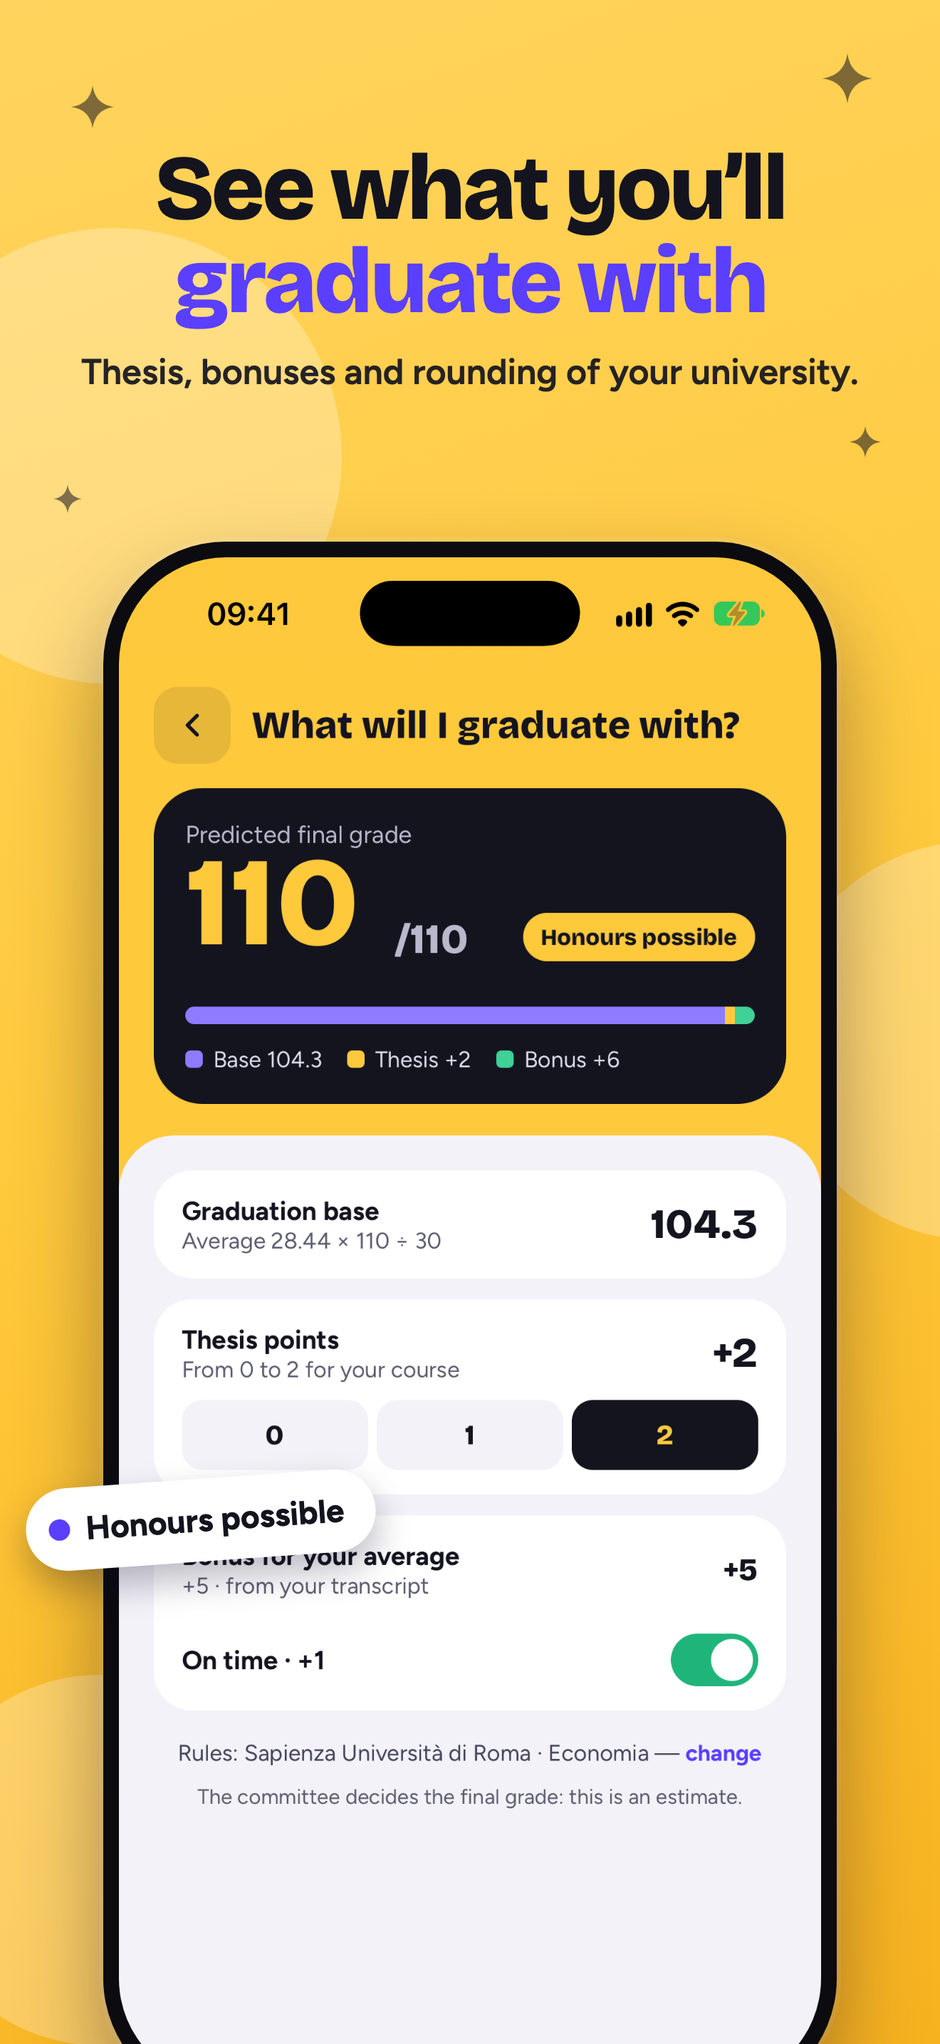
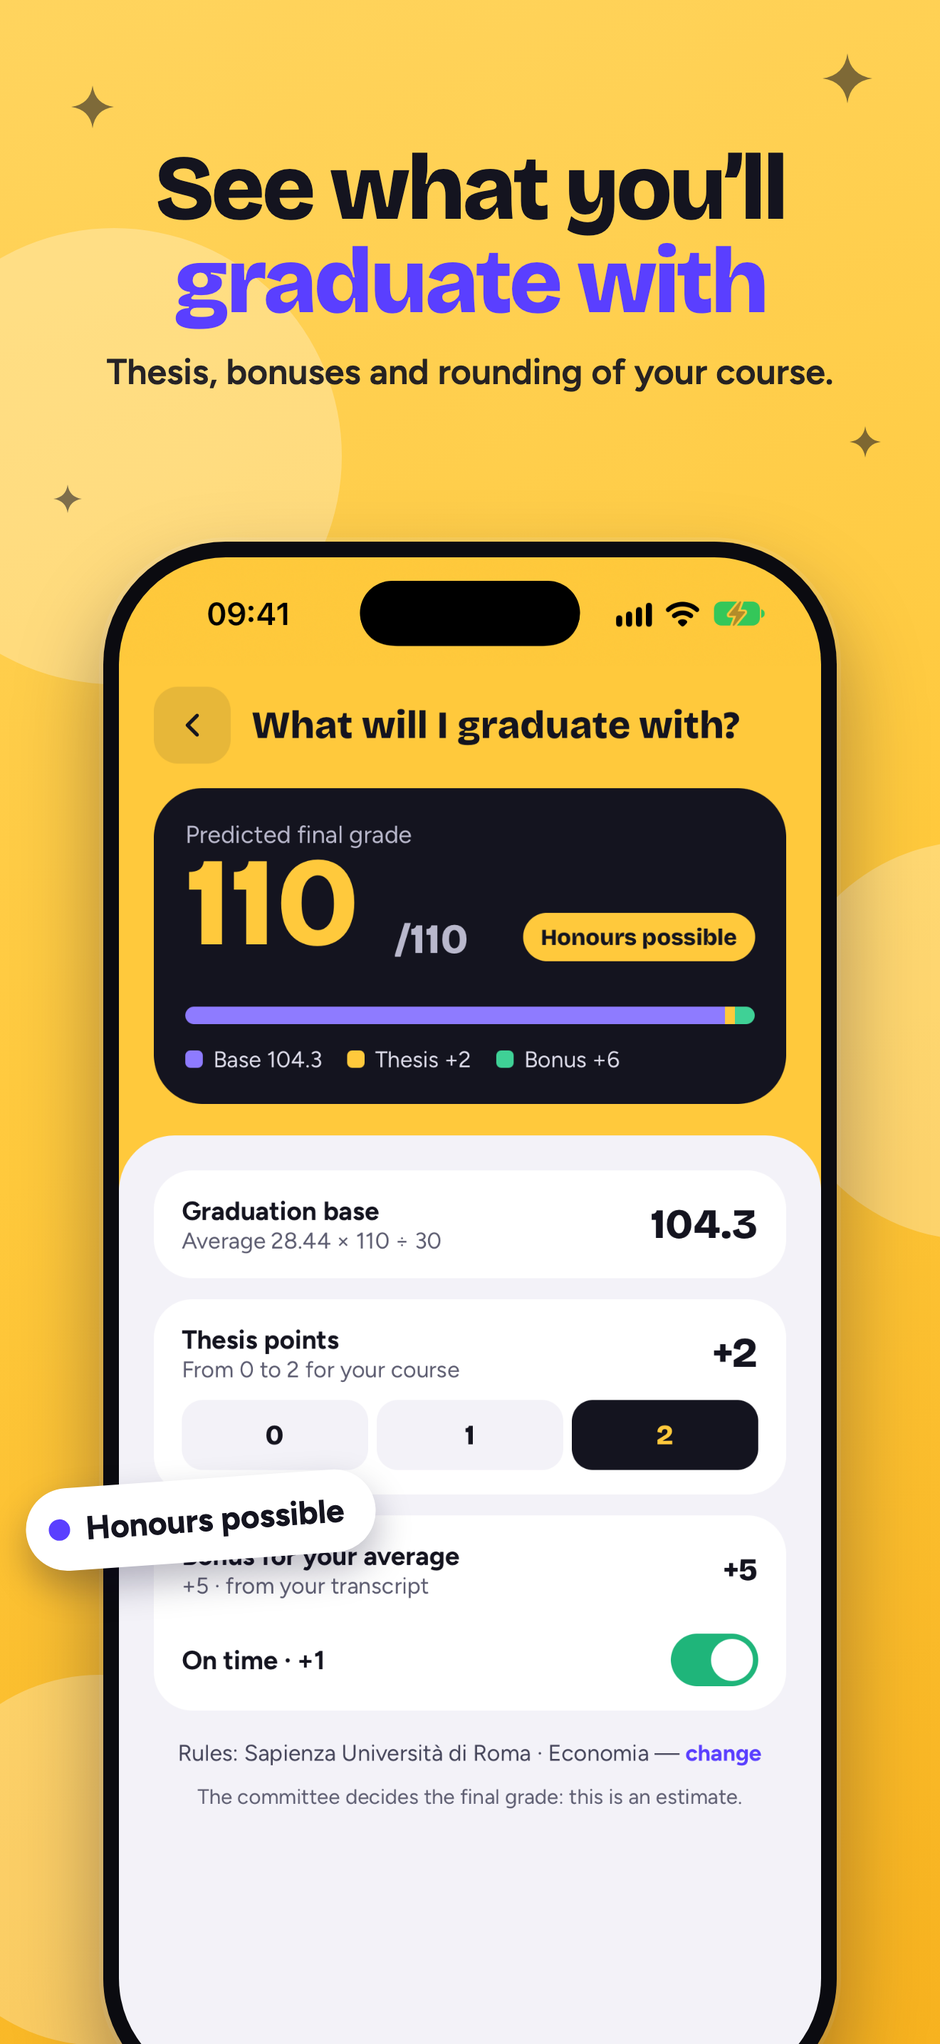
Describe rules per course on the site, in the app and on the store
The app no longer ships course rules, so the copy now says the rules are the
student's course rules, set from their regulation, and ready only for the
universities with a single rule. Adds the App Store texts for 2.0.0 in six
languages and moves the screenshot demo to Bocconi, which has a shipped rule.

Changed region(s): [[0.0932, 0.1552, 0.9008, 0.1862]]

diff --git a/docs/index.html b/docs/index.html
@@ -4,10 +4,10 @@
     <meta charset="utf-8">
     <meta name="viewport" content="width=device-width, initial-scale=1, viewport-fit=cover">
     <title>UniStats — Media, CFU e voto di laurea</title>
-    <meta name="description" content="UniStats calcola media ponderata, CFU e voto di laurea con le regole del tuo ateneo. Importa il libretto in PDF, simula i prossimi esami. Tutto resta sul tuo telefono.">
+    <meta name="description" content="UniStats calcola media ponderata, CFU e voto di laurea con le regole del tuo corso. Importa il libretto in PDF, simula i prossimi esami. Tutto resta sul tuo telefono.">
     <meta name="theme-color" content="#5A3FFF">
     <meta property="og:title" content="UniStats — Tutta la tua carriera in un colpo d’occhio">
-    <meta property="og:description" content="Media, CFU e voto di laurea calcolati con le regole del tuo ateneo. Senza fogli Excel.">
+    <meta property="og:description" content="Media, CFU e voto di laurea calcolati con le regole del tuo corso. Senza fogli Excel.">
     <meta property="og:image" content="assets/icon.png">
     <link rel="icon" href="assets/favicon.png">
     <link rel="apple-touch-icon" href="assets/icon.png">
@@ -67,7 +67,7 @@
         <div class="hero-copy">
             <div class="chip rv"><i>+0,26</i> ultimo esame</div>
             <h1 class="display rv" style="--i:1">Tutta la tua carriera in un colpo d’occhio.</h1>
-            <p class="lead rv" style="--i:2">Media, CFU e voto di laurea calcolati con le regole del <span class="sun-txt">tuo</span> ateneo. Senza fogli Excel.</p>
+            <p class="lead rv" style="--i:2">Media, CFU e voto di laurea calcolati con le regole del <span class="sun-txt">tuo</span> corso. Senza fogli Excel.</p>
             <div class="cta-row rv" style="--i:3">
                 <a class="btn btn-white" href="#scarica">
                     <svg viewBox="0 0 24 24" fill="currentColor" aria-hidden="true"><path d="M16.4 12.6c0-2.6 2.1-3.8 2.2-3.9-1.2-1.8-3.1-2-3.7-2-1.6-.2-3.1.9-3.9.9-.8 0-2-.9-3.4-.9-1.7 0-3.3 1-4.2 2.6-1.8 3.1-.5 7.7 1.3 10.2.9 1.2 1.9 2.6 3.2 2.6 1.3-.1 1.8-.8 3.3-.8 1.6 0 2 .8 3.4.8 1.4 0 2.3-1.3 3.1-2.5 1-1.4 1.4-2.8 1.4-2.9 0 0-2.7-1-2.7-4.1zM13.9 4.9c.7-.9 1.2-2 1.1-3.2-1 0-2.3.7-3 1.6-.7.8-1.2 2-1.1 3.1 1.1.1 2.3-.6 3-1.5z"/></svg>
@@ -182,7 +182,7 @@
             <article class="tool grad rv">
                 <div class="ic"><svg viewBox="0 0 24 24" fill="none" stroke="currentColor" stroke-width="2.2" stroke-linecap="round" stroke-linejoin="round"><path d="M22 10 12 5 2 10l10 5 10-5z"/><path d="M6 12v5c3 2 9 2 12 0v-5"/></svg></div>
                 <h3>Con quanto mi laureo?</h3>
-                <p>Base + tesi + bonus del tuo ateneo. Punti tesi, bonus e arrotondamenti cambiano da ateneo ad ateneo: usiamo i tuoi.</p>
+                <p>Base + tesi + bonus del tuo corso. Punti tesi, bonus e arrotondamenti cambiano da corso a corso: li imposti dal tuo regolamento.</p>
                 <div class="demo">
                     <div class="calc"><span class="big" id="gradOut">105</span><span class="of">/110</span><span class="lode" id="gradLode">Lode possibile</span></div>
                     <div class="calc-parts"><span id="gradBase">Base 100,3</span><span id="gradThesis">Tesi +5</span><span id="gradBonus">Bonus +0</span></div>
@@ -281,8 +281,8 @@
     <div class="wrap">
         <div class="sec-head center">
             <p class="kicker rv">Dove studi?</p>
-            <h2 class="display rv" style="--i:1">Le regole del tuo ateneo, già pronte.</h2>
-            <p class="lead rv" style="--i:2">Valore della lode, voti scartati, punti tesi, bonus in corso, Erasmus. Ogni ateneo ha le sue regole: le prendiamo dai regolamenti pubblici, tu le controlli e le modifichi.</p>
+            <h2 class="display rv" style="--i:1">Le regole del tuo corso, in un minuto.</h2>
+            <p class="lead rv" style="--i:2">Valore della lode, voti scartati, punti tesi, bonus in corso, Erasmus. Quasi ogni corso ha le sue regole: parti da quelle standard e le adatti al tuo regolamento. Dove l’ateneo ne ha una sola, come PoliMi, PoliTo, Bocconi, LUISS e Ca’ Foscari, è già pronta.</p>
         </div>
     </div>
     <div class="marquee rv"><div class="track" id="uniA"></div></div>
@@ -290,7 +290,7 @@
     <div class="wrap">
         <div class="stats">
             <div class="stat s1 rv"><b data-count="95" data-dec="0">0</b><span>atenei italiani: statali, non statali e telematici</span></div>
-            <div class="stat s2 rv" style="--i:1"><b data-count="29" data-dec="0">0</b><span>atenei con il regolamento di laurea già configurato</span></div>
+            <div class="stat s2 rv" style="--i:1"><b data-count="5" data-dec="0">0</b><span>atenei con la regola di laurea unica già pronta; per gli altri la imposti tu</span></div>
             <div class="stat s3 rv" style="--i:2"><b>3</b><span>percorsi: triennale, magistrale, ciclo unico</span></div>
         </div>
     </div>

diff --git a/docs/support.html b/docs/support.html
@@ -27,15 +27,15 @@
     <div class="blob"></div>
     <div class="wrap">
         <h1 class="display">Come possiamo aiutarti?</h1>
-        <p>Le risposte alle domande più comuni su media, regole del tuo ateneo e import del libretto.</p>
+        <p>Le risposte alle domande più comuni su media, regole del tuo corso e import del libretto.</p>
     </div>
 </section>
 <div class="doc faq">
         <details><summary>Come calcola la media UniStats?</summary><p>Moltiplica ogni voto per i suoi CFU, somma tutto e divide per i CFU con voto: è la media ponderata. Mostriamo anche la media aritmetica, ma per la laurea conta quasi sempre la ponderata. In Strumenti › Come calcoliamo tutto trovi i tuoi numeri passo per passo.</p></details>
-        <details><summary>Quanto vale la lode?</summary><p>Dipende dal tuo ateneo: di solito 30, a volte 31, 32 o più. La impostiamo in base al regolamento del tuo ateneo e puoi cambiarla in Profilo › Regole di calcolo.</p></details>
+        <details><summary>Quanto vale la lode?</summary><p>Dipende dal tuo ateneo: di solito 30, a volte 31, 32 o più. La imposti in Profilo › Regole di calcolo, come dice il regolamento del tuo corso. Per PoliMi, PoliTo, Bocconi, LUISS e Ca’ Foscari è già impostata.</p></details>
         <details><summary>Le idoneità entrano nella media?</summary><p>No. Le idoneità aggiungono CFU al tuo percorso ma non cambiano la media.</p></details>
         <details><summary>Il voto di laurea previsto è quello ufficiale?</summary><p>No: è una stima. Base di laurea (media × 110 ÷ 30), punti tesi, bonus e arrotondamenti cambiano da corso a corso. Il voto finale lo decide la commissione.</p></details>
-        <details><summary>Il mio ateneo non c’è o le regole sono sbagliate. Cosa faccio?</summary><p>Durante la configurazione tocca “Non lo trovi? Imposta le regole a mano”. In ogni momento puoi modificare le regole in Profilo › Regole di calcolo. Scrivici pure: aggiungiamo e correggiamo gli atenei a ogni aggiornamento.</p></details>
+        <details><summary>Le regole del mio corso non ci sono. Cosa faccio?</summary><p>Quasi ogni corso ha un regolamento di laurea diverso, quindi UniStats non le inserisce da sé: partono le regole standard e le adatti tu. In Profilo › Regole di calcolo imposti punti tesi, valore della lode, arrotondamento, lode e bonus (laurea in corso, lodi, media, Erasmus e altri). Trovi i valori nel regolamento della prova finale del tuo corso. Già pronte solo per gli atenei con una regola unica: PoliMi, PoliTo, Bocconi, LUISS e Ca’ Foscari.</p></details>
         <details><summary>Come importo il libretto in PDF?</summary><p>Scarica il PDF del libretto (o dell’autocertificazione esami) dal portale del tuo ateneo, poi in UniStats tocca Importa libretto e scegli il file. Controlla gli esami trovati, correggi quelli segnati e conferma. Se il PDF non viene letto puoi incollare il testo o aggiungere gli esami a mano.</p></details>
         <details><summary>Dove sono salvati i miei dati?</summary><p>Solo sul tuo telefono. Nessun account, nessun server, nessun tracciamento. Anche il PDF viene letto in locale.</p></details>
         <details><summary>Come cancello tutti i dati?</summary><p>Vai su Profilo › Cancella tutti i dati, oppure disinstalla l’app.</p></details>

diff --git a/src/i18n/locales/fr.ts b/src/i18n/locales/fr.ts
@@ -18,7 +18,7 @@ const fr: Dict = {
 
     // Onboarding · intro
     onb1Title: 'Tout ton cursus en un coup d’œil.',
-    onb1Body: 'Moyenne, crédits et note finale, calculés avec les règles de ton université. Sans tableur.',
+    onb1Body: 'Moyenne, crédits et note finale, calculés avec les règles de ta filière. Sans tableur.',
     onb1Cta: 'C’est parti',
     onb1Chip: '+{v} dernier examen',
     average: 'Moyenne',
@@ -33,7 +33,7 @@ const fr: Dict = {
     onTimeShort: 'Dans les temps',
     predictedGrade: 'Note prévue',
     onb3Title: 'Découvre ta note de fin d’études.',
-    onb3Body: 'Points de mémoire, bonus et arrondis changent d’une université à l’autre. On utilise les tiens.',
+    onb3Body: 'Points de mémoire, bonus et arrondis changent d’une filière à l’autre. Tu les règles selon ton règlement.',
     onb3Cta: 'Configurer mon cursus',
 
     // Onboarding · level
@@ -194,7 +194,7 @@ const fr: Dict = {
     toolsTitle: 'Outils',
     toolsBody: 'Une question, une réponse. Choisis ce que tu veux savoir.',
     qGrad: 'Avec quelle note vais-je finir ?',
-    qGradSub: 'Base + mémoire + bonus de ton université',
+    qGradSub: 'Base + mémoire + bonus de ta filière',
     qNeed: 'Quelle note me faut-il ?',
     qNeedSub: 'Pour atteindre la moyenne que tu veux',
     qWhatIf: 'Et si j’obtiens… ?',
@@ -268,7 +268,7 @@ const fr: Dict = {
     untilEnd: 'Jusqu’à la fin',
     inPractice: 'En pratique :',
     tipText: 'environ {n} examens de 9 CFU avec {v} de moyenne.',
-    lodeNote: 'Dans ton université, la mention vaut {v}.',
+    lodeNote: 'Avec tes règles, la mention vaut {v}.',
     noGradesYet: 'Ajoute d’abord un examen noté : on pourra alors le calculer.',
 
     // What if
@@ -291,7 +291,7 @@ const fr: Dict = {
     step1: 'Multiplie chaque note par ses crédits',
     moreExams: '+ {n} autres examens',
     total: 'Total',
-    step1Note: 'Dans ton université la mention vaut {v}. Les examens validés donnent des crédits mais restent hors calcul.',
+    step1Note: 'Avec tes règles, la mention vaut {v}. Les examens validés donnent des crédits mais restent hors calcul.',
     step1NoteDrop: 'Tes règles écartent les notes les plus basses ({v}).',
     step2: 'Divise par les crédits notés',
     step2Sub: '{sum} ÷ {cfu} = moyenne pondérée',

diff --git a/src/i18n/locales/de.ts b/src/i18n/locales/de.ts
@@ -18,7 +18,7 @@ const de: Dict = {
 
     // Onboarding · intro
     onb1Title: 'Dein ganzes Studium auf einen Blick.',
-    onb1Body: 'Schnitt, Credits und Abschlussnote, berechnet nach den Regeln deiner Uni. Ohne Tabellen.',
+    onb1Body: 'Schnitt, Credits und Abschlussnote, berechnet nach den Regeln deines Studiengangs. Ohne Tabellen.',
     onb1Cta: 'Los geht’s',
     onb1Chip: '+{v} letzte Prüfung',
     average: 'Schnitt',
@@ -33,7 +33,7 @@ const de: Dict = {
     onTimeShort: 'In Regelzeit',
     predictedGrade: 'Erwartete Note',
     onb3Title: 'Finde deine Abschlussnote heraus.',
-    onb3Body: 'Punkte für die Arbeit, Boni und Rundung sind an jeder Uni anders. Wir nutzen deine.',
+    onb3Body: 'Punkte für die Arbeit, Boni und Rundung sind in jedem Studiengang anders. Du stellst sie nach deiner Ordnung ein.',
     onb3Cta: 'Mein Studium einrichten',
 
     // Onboarding · level
@@ -194,7 +194,7 @@ const de: Dict = {
     toolsTitle: 'Tools',
     toolsBody: 'Eine Frage, eine Antwort. Wähle, was du wissen willst.',
     qGrad: 'Mit welcher Note schließe ich ab?',
-    qGradSub: 'Basis + Arbeit + Boni deiner Uni',
+    qGradSub: 'Basis + Arbeit + Boni deines Studiengangs',
     qNeed: 'Welche Note brauche ich?',
     qNeedSub: 'Um den gewünschten Schnitt zu erreichen',
     qWhatIf: 'Was wäre, wenn…?',
@@ -268,7 +268,7 @@ const de: Dict = {
     untilEnd: 'Bis zum Ende',
     inPractice: 'Konkret:',
     tipText: 'etwa {n} Prüfungen zu 9 CFU mit {v} im Schnitt.',
-    lodeNote: 'An deiner Uni zählt die Auszeichnung {v}.',
+    lodeNote: 'Nach deinen Regeln zählt die Auszeichnung {v}.',
     noGradesYet: 'Füge zuerst eine benotete Prüfung hinzu: dann können wir rechnen.',
 
     // What if
@@ -291,7 +291,7 @@ const de: Dict = {
     step1: 'Jede Note mal ihre Credits',
     moreExams: '+ {n} weitere Prüfungen',
     total: 'Summe',
-    step1Note: 'An deiner Uni zählt die Auszeichnung {v}. Unbenotete Prüfungen bringen Credits, bleiben aber außen vor.',
+    step1Note: 'Nach deinen Regeln zählt die Auszeichnung {v}. Unbenotete Prüfungen bringen Credits, bleiben aber außen vor.',
     step1NoteDrop: 'Deine Regeln lassen die schlechtesten Noten weg ({v}).',
     step2: 'Durch die benoteten Credits teilen',
     step2Sub: '{sum} ÷ {cfu} = gewichteter Schnitt',

diff --git a/src/i18n/locales/es.ts b/src/i18n/locales/es.ts
@@ -17,7 +17,7 @@ const es: Dict = {
     cfuN: '{n} CFU',
 
     onb1Title: 'Toda tu carrera de un vistazo.',
-    onb1Body: 'Media, créditos y nota final calculados con las reglas de tu universidad. Sin hojas de cálculo.',
+    onb1Body: 'Media, créditos y nota final calculados con las reglas de tu carrera. Sin hojas de cálculo.',
     onb1Cta: 'Empezamos',
     onb1Chip: '+{v} último examen',
     average: 'Media',
@@ -32,7 +32,7 @@ const es: Dict = {
     onTimeShort: 'A tiempo',
     predictedGrade: 'Nota prevista',
     onb3Title: 'Descubre con qué nota te gradúas.',
-    onb3Body: 'Los puntos de la tesis, los bonus y el redondeo cambian de una universidad a otra. Usamos los tuyos.',
+    onb3Body: 'Los puntos de la tesis, los bonus y el redondeo cambian de una carrera a otra. Los ajustas según tu reglamento.',
     onb3Cta: 'Configurar mi carrera',
 
     levelTitle: '¿Qué estudios estás haciendo?',
@@ -182,7 +182,7 @@ const es: Dict = {
     toolsTitle: 'Herramientas',
     toolsBody: 'Una pregunta, una respuesta. Elige qué quieres saber.',
     qGrad: '¿Con qué nota me gradúo?',
-    qGradSub: 'Base + tesis + bonus de tu universidad',
+    qGradSub: 'Base + tesis + bonus de tu carrera',
     qNeed: '¿Qué nota necesito?',
     qNeedSub: 'Para llegar a la media que quieres',
     qWhatIf: '¿Y si saco…?',
@@ -254,7 +254,7 @@ const es: Dict = {
     untilEnd: 'Hasta el final',
     inPractice: 'En la práctica:',
     tipText: 'unos {n} exámenes de 9 CFU con {v} de media.',
-    lodeNote: 'En tu universidad la matrícula vale {v}.',
+    lodeNote: 'Con tus reglas la matrícula vale {v}.',
     noGradesYet: 'Añade primero un examen con nota: luego lo calculamos.',
 
     whatIfTitle: '¿Y si saco…?',
@@ -275,7 +275,7 @@ const es: Dict = {
     step1: 'Multiplica cada nota por sus créditos',
     moreExams: '+ otros {n} exámenes',
     total: 'Total',
-    step1Note: 'En tu universidad la matrícula vale {v}. Los aptos dan créditos pero quedan fuera.',
+    step1Note: 'Con tus reglas la matrícula vale {v}. Los aptos dan créditos pero quedan fuera.',
     step1NoteDrop: 'Tus reglas dejan fuera las notas más bajas ({v}).',
     step2: 'Divide por los créditos con nota',
     step2Sub: '{sum} ÷ {cfu} = media ponderada',

diff --git a/src/i18n/locales/pt.ts b/src/i18n/locales/pt.ts
@@ -18,7 +18,7 @@ const pt: Dict = {
 
     // Onboarding · intro
     onb1Title: 'Todo o seu curso num relance.',
-    onb1Body: 'Média, créditos e nota final, calculados com as regras da sua universidade. Sem planilhas.',
+    onb1Body: 'Média, créditos e nota final, calculados com as regras do seu curso. Sem planilhas.',
     onb1Cta: 'Vamos começar',
     onb1Chip: '+{v} último exame',
     average: 'Média',
@@ -33,7 +33,7 @@ const pt: Dict = {
     onTimeShort: 'No prazo',
     predictedGrade: 'Nota prevista',
     onb3Title: 'Descubra sua nota de formatura.',
-    onb3Body: 'Pontos do TCC, bônus e arredondamento mudam de uma universidade para outra. Usamos os seus.',
+    onb3Body: 'Pontos do TCC, bônus e arredondamento mudam de um curso para outro. Você os ajusta conforme o seu regulamento.',
     onb3Cta: 'Configurar meu curso',
 
     // Onboarding · level
@@ -194,7 +194,7 @@ const pt: Dict = {
     toolsTitle: 'Ferramentas',
     toolsBody: 'Uma pergunta, uma resposta. Escolha o que quer saber.',
     qGrad: 'Com quanto vou me formar?',
-    qGradSub: 'Base + TCC + bônus da sua universidade',
+    qGradSub: 'Base + TCC + bônus do seu curso',
     qNeed: 'Que nota eu preciso?',
     qNeedSub: 'Para chegar à média que você quer',
     qWhatIf: 'E se eu tirar…?',
@@ -268,7 +268,7 @@ const pt: Dict = {
     untilEnd: 'Até o fim',
     inPractice: 'Na prática:',
     tipText: 'cerca de {n} exames de 9 CFU com média {v}.',
-    lodeNote: 'Na sua universidade o louvor vale {v}.',
+    lodeNote: 'Com as suas regras o louvor vale {v}.',
     noGradesYet: 'Adicione primeiro um exame com nota: aí podemos calcular.',
 
     // What if
@@ -291,7 +291,7 @@ const pt: Dict = {
     step1: 'Multiplique cada nota pelos créditos',
     moreExams: '+ {n} outros exames',
     total: 'Total',
-    step1Note: 'Na sua universidade o louvor vale {v}. Exames sem nota dão créditos mas ficam de fora.',
+    step1Note: 'Com as suas regras o louvor vale {v}. Exames sem nota dão créditos mas ficam de fora.',
     step1NoteDrop: 'Suas regras deixam de fora as notas mais baixas ({v}).',
     step2: 'Divida pelos créditos com nota',
     step2Sub: '{sum} ÷ {cfu} = média ponderada',

diff --git a/src/i18n/locales/it.ts b/src/i18n/locales/it.ts
@@ -17,7 +17,7 @@ const it: Dict = {
     cfuN: '{n} CFU',
 
     onb1Title: 'Tutta la tua carriera in un colpo d’occhio.',
-    onb1Body: 'Media, CFU e voto di laurea calcolati con le regole del tuo ateneo. Senza fogli Excel.',
+    onb1Body: 'Media, CFU e voto di laurea calcolati con le regole del tuo corso. Senza fogli Excel.',
     onb1Cta: 'Iniziamo',
     onb1Chip: '+{v} ultimo esame',
     average: 'Media',
@@ -32,7 +32,7 @@ const it: Dict = {
     onTimeShort: 'In corso',
     predictedGrade: 'Voto previsto',
     onb3Title: 'Scopri con quanto ti laurei.',
-    onb3Body: 'Punti tesi, bonus e arrotondamenti cambiano da ateneo ad ateneo. Usiamo i tuoi.',
+    onb3Body: 'Punti tesi, bonus e arrotondamenti cambiano da corso a corso. Li imposti come dice il tuo regolamento.',
     onb3Cta: 'Configura il mio percorso',
 
     levelTitle: 'Che percorso stai facendo?',
@@ -182,7 +182,7 @@ const it: Dict = {
     toolsTitle: 'Strumenti',
     toolsBody: 'Una domanda, una risposta. Scegli cosa vuoi sapere.',
     qGrad: 'Con quanto mi laureo?',
-    qGradSub: 'Base + tesi + bonus del tuo ateneo',
+    qGradSub: 'Base + tesi + bonus del tuo corso',
     qNeed: 'Che voto mi serve?',
     qNeedSub: 'Per arrivare alla media che vuoi',
     qWhatIf: 'E se prendo…?',
@@ -254,7 +254,7 @@ const it: Dict = {
     untilEnd: 'Fino alla fine',
     inPractice: 'In pratica:',
     tipText: 'circa {n} esami da 9 CFU con {v} di media.',
-    lodeNote: 'Nel tuo ateneo la lode vale {v}.',
+    lodeNote: 'Con le tue regole la lode vale {v}.',
     noGradesYet: 'Aggiungi prima un esame con voto: poi lo calcoliamo.',
 
     whatIfTitle: 'E se prendo…?',
@@ -275,7 +275,7 @@ const it: Dict = {
     step1: 'Moltiplica ogni voto per i suoi CFU',
     moreExams: '+ altri {n} esami',
     total: 'Totale',
-    step1Note: 'Nel tuo ateneo la lode vale {v}. Le idoneità danno CFU ma restano fuori.',
+    step1Note: 'Con le tue regole la lode vale {v}. Le idoneità danno CFU ma restano fuori.',
     step1NoteDrop: 'Le tue regole escludono i voti più bassi ({v}).',
     step2: 'Dividi per i CFU con voto',
     step2Sub: '{sum} ÷ {cfu} = media ponderata',

diff --git a/src/i18n/locales/en.ts b/src/i18n/locales/en.ts
@@ -16,7 +16,7 @@ const en = {
 
     // Onboarding · intro
     onb1Title: 'Your whole degree at a glance.',
-    onb1Body: 'Average, credits and final grade, calculated with your university’s rules. No spreadsheets.',
+    onb1Body: 'Average, credits and final grade, calculated with your course’s rules. No spreadsheets.',
     onb1Cta: 'Let’s start',
     onb1Chip: '+{v} last exam',
     average: 'Average',
@@ -31,7 +31,7 @@ const en = {
     onTimeShort: 'On time',
     predictedGrade: 'Predicted grade',
     onb3Title: 'Find out your final grade.',
-    onb3Body: 'Thesis points, bonuses and rounding change from one university to another. We use yours.',
+    onb3Body: 'Thesis points, bonuses and rounding change from one course to another. Set them as your regulation says.',
     onb3Cta: 'Set up my degree',
 
     // Onboarding · level
@@ -192,7 +192,7 @@ const en = {
     toolsTitle: 'Tools',
     toolsBody: 'One question, one answer. Pick what you want to know.',
     qGrad: 'What will I graduate with?',
-    qGradSub: 'Base + thesis + your university’s bonuses',
+    qGradSub: 'Base + thesis + your course’s bonuses',
     qNeed: 'What grade do I need?',
     qNeedSub: 'To reach the average you want',
     qWhatIf: 'What if I get…?',
@@ -266,7 +266,7 @@ const en = {
     untilEnd: 'Until the end',
     inPractice: 'In practice:',
     tipText: 'about {n} exams of 9 CFU averaging {v}.',
-    lodeNote: 'Honours count as {v} at your university.',
+    lodeNote: 'With your rules, honours count as {v}.',
     noGradesYet: 'Add a graded exam first: then we can calculate it.',
 
     // What if
@@ -289,7 +289,7 @@ const en = {
     step1: 'Multiply each grade by its credits',
     moreExams: '+ {n} more exams',
     total: 'Total',
-    step1Note: 'Honours count {v} at your university. Pass/fail exams give credits but stay out.',
+    step1Note: 'With your rules, honours count {v}. Pass/fail exams give credits but stay out.',
     step1NoteDrop: 'Your rules leave out the lowest grades ({v}).',
     step2: 'Divide by graded credits',
     step2Sub: '{sum} ÷ {cfu} = weighted average',
